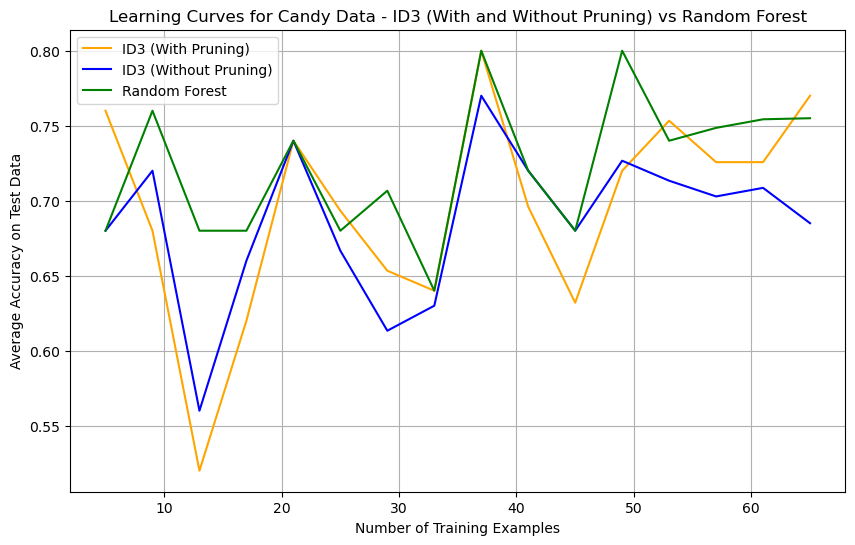
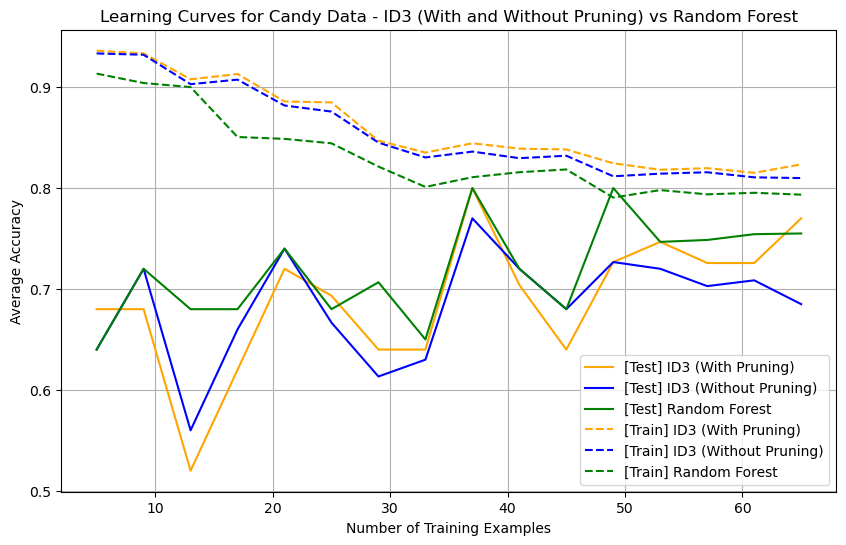
add random forest learning curve

diff --git a/homework-1/tune_random_forest.py b/homework-1/tune_random_forest.py
@@ -16,6 +16,9 @@ def plot_random_forest_id3_accuracies(
     avg_test_accuracy_id3_pruning,
     avg_test_accuracy_id3_not_pruning,
     avg_test_accuracy_rf,
+    avg_train_accuracy_id3_pruning,
+    avg_train_accuracy_id3_not_pruning,
+    avg_train_accuracy_rf,
     dataset_name,
 ):
     """
@@ -25,23 +28,44 @@ def plot_random_forest_id3_accuracies(
     plt.plot(
         training_sizes,
         avg_test_accuracy_id3_pruning,
-        label="ID3 (With Pruning)",
+        label="[Test] ID3 (With Pruning)",
         color="orange",
     )
     plt.plot(
         training_sizes,
         avg_test_accuracy_id3_not_pruning,
-        label="ID3 (Without Pruning)",
+        label="[Test] ID3 (Without Pruning)",
         color="blue",
     )
     plt.plot(
         training_sizes,
         avg_test_accuracy_rf,
-        label="Random Forest",
+        label="[Test] Random Forest",
         color="green",
     )
+    plt.plot(
+        training_sizes,
+        avg_train_accuracy_id3_pruning,
+        label="[Train] ID3 (With Pruning)",
+        color="orange",
+        linestyle="--",
+    )
+    plt.plot(
+        training_sizes,
+        avg_train_accuracy_id3_not_pruning,
+        label="[Train] ID3 (Without Pruning)",
+        color="blue",
+        linestyle="--",
+    )
+    plt.plot(
+        training_sizes,
+        avg_train_accuracy_rf,
+        label="[Train] Random Forest",
+        color="green",
+        linestyle="--",
+    )
     plt.xlabel("Number of Training Examples")
-    plt.ylabel("Average Accuracy on Test Data")
+    plt.ylabel("Average Accuracy")
     plt.title(
         f"Learning Curves for {dataset_name} Data - ID3 (With and Without Pruning) vs Random Forest"
     )
@@ -99,11 +123,17 @@ def learning_curves_random_forest_id3(filename, training_sizes, num_trees):
     avg_test_accuracy_id3_pruning = []
     avg_test_accuracy_id3_not_pruning = []
     avg_test_accuracy_rf = []
+    avg_train_accuracy_id3_pruning = []
+    avg_train_accuracy_id3_not_pruning = []
+    avg_train_accuracy_rf = []
 
     for train_size in training_sizes:
-        with_pruning_acc = []
-        without_pruning = []
-        rf_acc = []
+        with_pruning_acc_test = []
+        without_pruning_acc_test = []
+        rf_acc_test = []
+        with_pruning_acc_train = []
+        without_pruning_acc_train = []
+        rf_acc_train = []
 
         for _ in range(25):
             random.shuffle(data)
@@ -118,31 +148,47 @@ def learning_curves_random_forest_id3(filename, training_sizes, num_trees):
             ]
 
             tree = ID3.ID3(train, 0)
+            acc = ID3.test(tree, train)
+            with_pruning_acc_train.append(acc)
             ID3.prune(tree, valid)
             acc = ID3.test(tree, test)
-            with_pruning_acc.append(acc)
+            with_pruning_acc_test.append(acc)
 
             tree = ID3.ID3(train + valid, 0)
+            acc = ID3.test(tree, train + valid)
+            without_pruning_acc_train.append(acc)
             acc = ID3.test(tree, test)
-            without_pruning.append(acc)
+            without_pruning_acc_test.append(acc)
 
             random_forest = RandomForest(num_trees)
             random_forest.fit(train + valid)
+            acc = random_forest.test(train + valid)
+            rf_acc_train.append(acc)
             acc = random_forest.test(test)
-            rf_acc.append(acc)
+            rf_acc_test.append(acc)
 
         avg_test_accuracy_id3_pruning.append(
-            sum(with_pruning_acc) / len(with_pruning_acc)
+            sum(with_pruning_acc_test) / len(with_pruning_acc_test)
         )
         avg_test_accuracy_id3_not_pruning.append(
-            sum(without_pruning) / len(without_pruning)
+            sum(without_pruning_acc_test) / len(without_pruning_acc_test)
         )
-        avg_test_accuracy_rf.append(sum(rf_acc) / len(rf_acc))
+        avg_test_accuracy_rf.append(sum(rf_acc_test) / len(rf_acc_test))
+        avg_train_accuracy_id3_pruning.append(
+            sum(with_pruning_acc_train) / len(with_pruning_acc_train)
+        )
+        avg_train_accuracy_id3_not_pruning.append(
+            sum(without_pruning_acc_train) / len(without_pruning_acc_train)
+        )
+        avg_train_accuracy_rf.append(sum(rf_acc_train) / len(rf_acc_train))
     plot_random_forest_id3_accuracies(
         training_sizes,
         avg_test_accuracy_id3_pruning,
         avg_test_accuracy_id3_not_pruning,
         avg_test_accuracy_rf,
+        avg_train_accuracy_id3_pruning,
+        avg_train_accuracy_id3_not_pruning,
+        avg_train_accuracy_rf,
         "Candy",
     )
 
